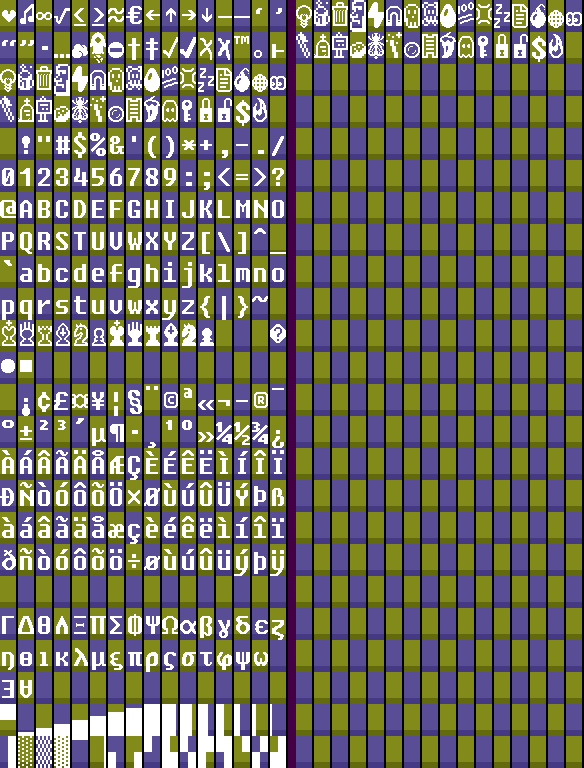
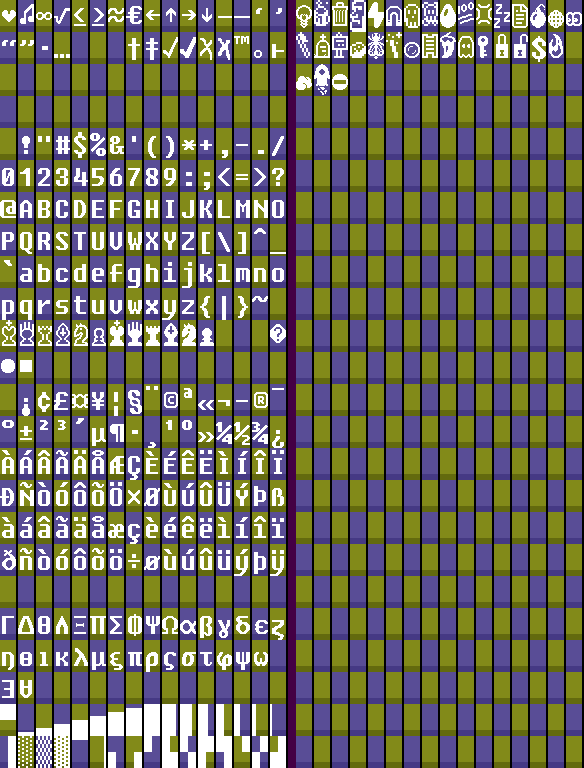
Move emoji out of 'classic' page. Fix some characters in FixederSys light, but there's more to do there before 'release'.
git-svn-id: file:///home/runner/work/tom7misc-sync-action/tom7misc-sync-action/upstream/trunk@5833 c7e11af0-4c7a-11f1-9edd-117cb6f09d55

Changed region(s): [[0.0, 0.0312, 0.6164, 0.1562]]

diff --git a/bit7/font-image.cc b/bit7/font-image.cc
@@ -32,6 +32,10 @@ const char *Config::PageString(Page p) {
   }
 }
 
+// Tips:
+//  - To move glyphs between pages, first duplicate them, then
+//    normalize, then set the sources to -1, then normalize again.
+
 // Standard size is: 16x24
 const std::vector<int> &PageBit7Classic() {
   static const std::vector<int> CODEPOINTS = {
@@ -69,12 +73,8 @@ const std::vector<int> &PageBit7Classic() {
     0x2022,
     // HORIZONTAL ELLIPSIS
     0x2026,
-    // EMOJI: CLOUD
-    0x2601,
-    // EMOJI: ROCKET
-    0x1F680,
-    // EMOJI: NO ENTRY
-    0x26D4,
+    // Was some emoji; unclaimed now
+    -1, -1, -1,
 
     // dagger, double-dagger
     0x2020, 0x2021,
@@ -92,81 +92,10 @@ const std::vector<int> &PageBit7Classic() {
     // turnstile (a.k.a. right tack)
     0x22A2,
 
-    // space for emoji
-    // EMOJI: LIGHT BULB
-    0x1F4A1,
-    // EMOJI: BEER MUG
-    0x1F37A,
-    // EMOJI: WASTEBASKET
-    0x1F5D1,
-    // EMOJI: MOAI HEAD
-    0x1F5FF,
-    // EMOJI: HIGH VOLTAGE
-    0x26A1,
-    // EMOJI: MAGNET
-    0x1F9F2,
-    // EMOJI: SKULL
-    0x1F480,
-    // EMOJI: SKULL AND CROSSBONES
-    0x2620,
-    // EMOJI: DROPLET
-    0x1F4A7,
-    // EMOJI: HUNDRED POINTS
-    0x1F4AF,
-    // EMOJI: ANGER SYMBOL
-    0x1F4A2,
-    // EMOJI: ZZZ
-    0x1F4A4,
-    // EMOJI: PAGE FACING UP
-    0x1F4C4,
-    // EMOJI: BOMB
-    0x1F4A3,
-    // EMOJI: GLOBE WITH MERIDIANS
-    0x1F310,
-    // EMOJI: EYES
-    0x1F440,
-
-    // Emoji line 2.
-
-    // EMOJI: TOOTHBRUSH
-    0x1FAA5,
-    // EMOJI: HEADSTONE
-    0x1FAA6,
-    // EMOJI: PLACARD (Signpost)
-    0x1FAA7,
-    // EMOJI: ROCK
-    0x1FAA8,
-    // EMJOI: FLY
-    0x1FAB0,
-
-    // EMOJI: MAGIC WAND
-    0x1FA84,
-    // EMOJI: COIN
-    0x1FA99,
-    // EMOJI: LADDER
-    0x1FA9C,
-
-    // EMOJI: HOT PEPPER
-    0x1F336,
-
-    // EMOJI: GHOST
-    0x1F47B,
-
-    // EMOJI: KEY
-    0x1F511,
-
-    // EMOJI: LOCK (LOCKED)
-    0x1F512,
-    // EMOJI: OPEN LOCK
-    0x1F513,
-
-    // EMOJI: HEAVY DOLLAR SIGN
-    0x1F4B2,
-
-    // EMOJI: FIRE
-    0x1F525,
-
-    -1,
+    // Unclaimed. Was once emoji, but I moved those to the extended
+    // page.
+    -1, -1, -1, -1, -1, -1, -1, -1, -1, -1, -1, -1, -1, -1, -1, -1,
+    -1, -1, -1, -1, -1, -1, -1, -1, -1, -1, -1, -1, -1, -1, -1, -1,
 
     // ASCII, in order
     0x20, 0x21, 0x22, 0x23, 0x24, 0x25, 0x26, 0x27, 0x28, 0x29, 0x2A, 0x2B, 0x2C, 0x2D, 0x2E, 0x2F,
@@ -318,7 +247,14 @@ const std::vector<int> &PageBit7Extended() {
 
     -1,
 
-    -1, -1, -1, -1, -1, -1, -1, -1, -1, -1, -1, -1, -1, -1, -1, -1,
+    // EMOJI: CLOUD
+    0x2601,
+    // EMOJI: ROCKET
+    0x1F680,
+    // EMOJI: NO ENTRY
+    0x26D4,
+    -1, -1, -1, -1, -1, -1, -1, -1, -1, -1, -1, -1, -1,
+
     -1, -1, -1, -1, -1, -1, -1, -1, -1, -1, -1, -1, -1, -1, -1, -1,
     -1, -1, -1, -1, -1, -1, -1, -1, -1, -1, -1, -1, -1, -1, -1, -1,
     -1, -1, -1, -1, -1, -1, -1, -1, -1, -1, -1, -1, -1, -1, -1, -1,
@@ -566,6 +502,9 @@ void FontImage::AddPage(const ImageRGBA &img, Page p) {
           }
         }
 
+        // PERF: We could dedupe glyphs here. The main thing
+        // would be empty glyphs, I think.
+
         // No way to set left edge from image yet...
         Glyph glyph{.left_edge = 0, .pic = std::move(pic)};
         int idx = (int)glyphs.size();
@@ -582,7 +521,8 @@ void FontImage::AddPage(const ImageRGBA &img, Page p) {
   for (const auto &[cidx, gidx] : pos_to_glyph) {
     CHECK(gidx >= 0 && gidx < glyphs.size());
     const Glyph &glyph = glyphs[gidx];
-    const bool ok_missing = config.fixed_width && EmptyGlyph(glyph);
+    const bool is_empty = EmptyGlyph(glyph);
+    const bool ok_missing = config.fixed_width && is_empty;
 
     if (cidx >= (int)codepoints.size()) {
       if (!ok_missing) {
@@ -607,7 +547,11 @@ void FontImage::AddPage(const ImageRGBA &img, Page p) {
       }
 
     } else {
-      unicode_to_glyph[codepoint] = gidx;
+      // A codepoint can appear multiple times in different pages. We take
+      // the last one, but don't overwrite with an empty glyph.
+      if (!is_empty || !unicode_to_glyph.contains(codepoint)) {
+        unicode_to_glyph[codepoint] = gidx;
+      }
     }
   }
 }

diff --git a/bit7/normalize.cc b/bit7/normalize.cc
@@ -2,18 +2,13 @@
 // font image/config. Might do this if the image has something wrong
 // with it (stray pixels, etc.).
 
-#include <cstdint>
 #include <string>
 
 #include "base/logging.h"
 #include "font-image.h"
+#include "util.h"
 
 using namespace std;
-using uint8 = uint8_t;
-using uint32 = uint32_t;
-using uint64 = uint64_t;
-
-using Glyph = FontImage::Glyph;
 
 static Config ParseAndCheckConfig(const std::string &cfgfile) {
   Config config = Config::ParseConfig(cfgfile);
@@ -32,15 +27,22 @@ static Config ParseAndCheckConfig(const std::string &cfgfile) {
 }
 
 int main(int argc, char **argv) {
-  CHECK(argc == 3) <<
-    "Usage: ./normalize.exe config.cfg normalized.png";
+  CHECK(argc == 2 || argc == 3) <<
+    "Usage: ./normalize.exe config.cfg [normalized.png]";
 
-  printf("Normalize %s to %s\n", argv[1], argv[2]);
   const Config config = ParseAndCheckConfig(argv[1]);
+  std::string dest = config.pngfile;
+  if (argc == 3) dest = argv[2];
 
   FontImage font(config);
 
-  font.SaveImage(argv[2]);
+  if (Util::ExistsFile(dest)) {
+    std::string back = Util::BackupFile(dest);
+    printf("Moved old %s to %s\n", dest.c_str(),
+           back.c_str());
+  }
+
+  font.SaveImage(dest);
 
   return 0;
 }
